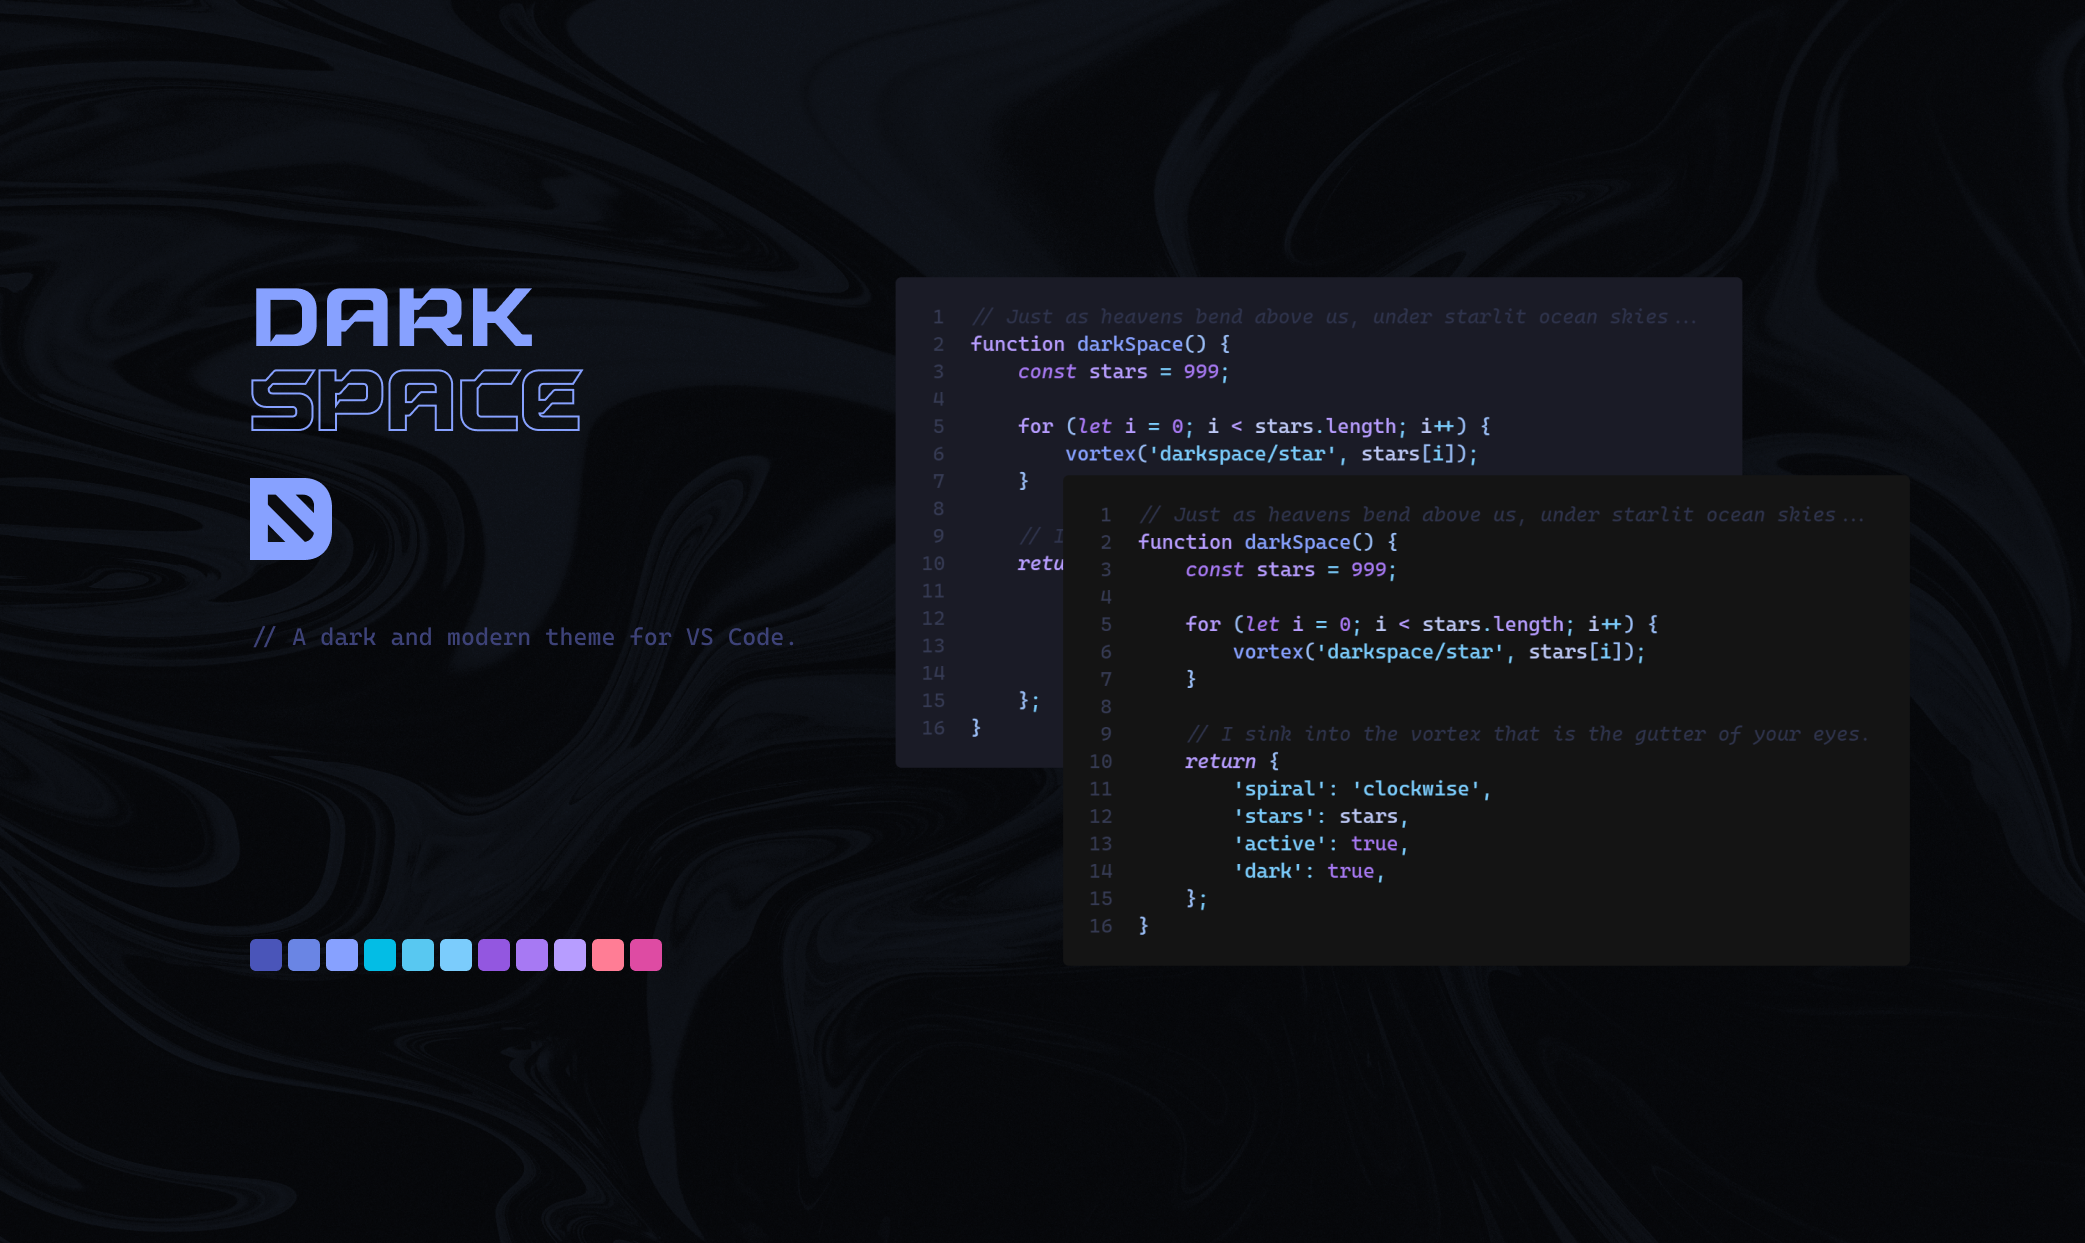
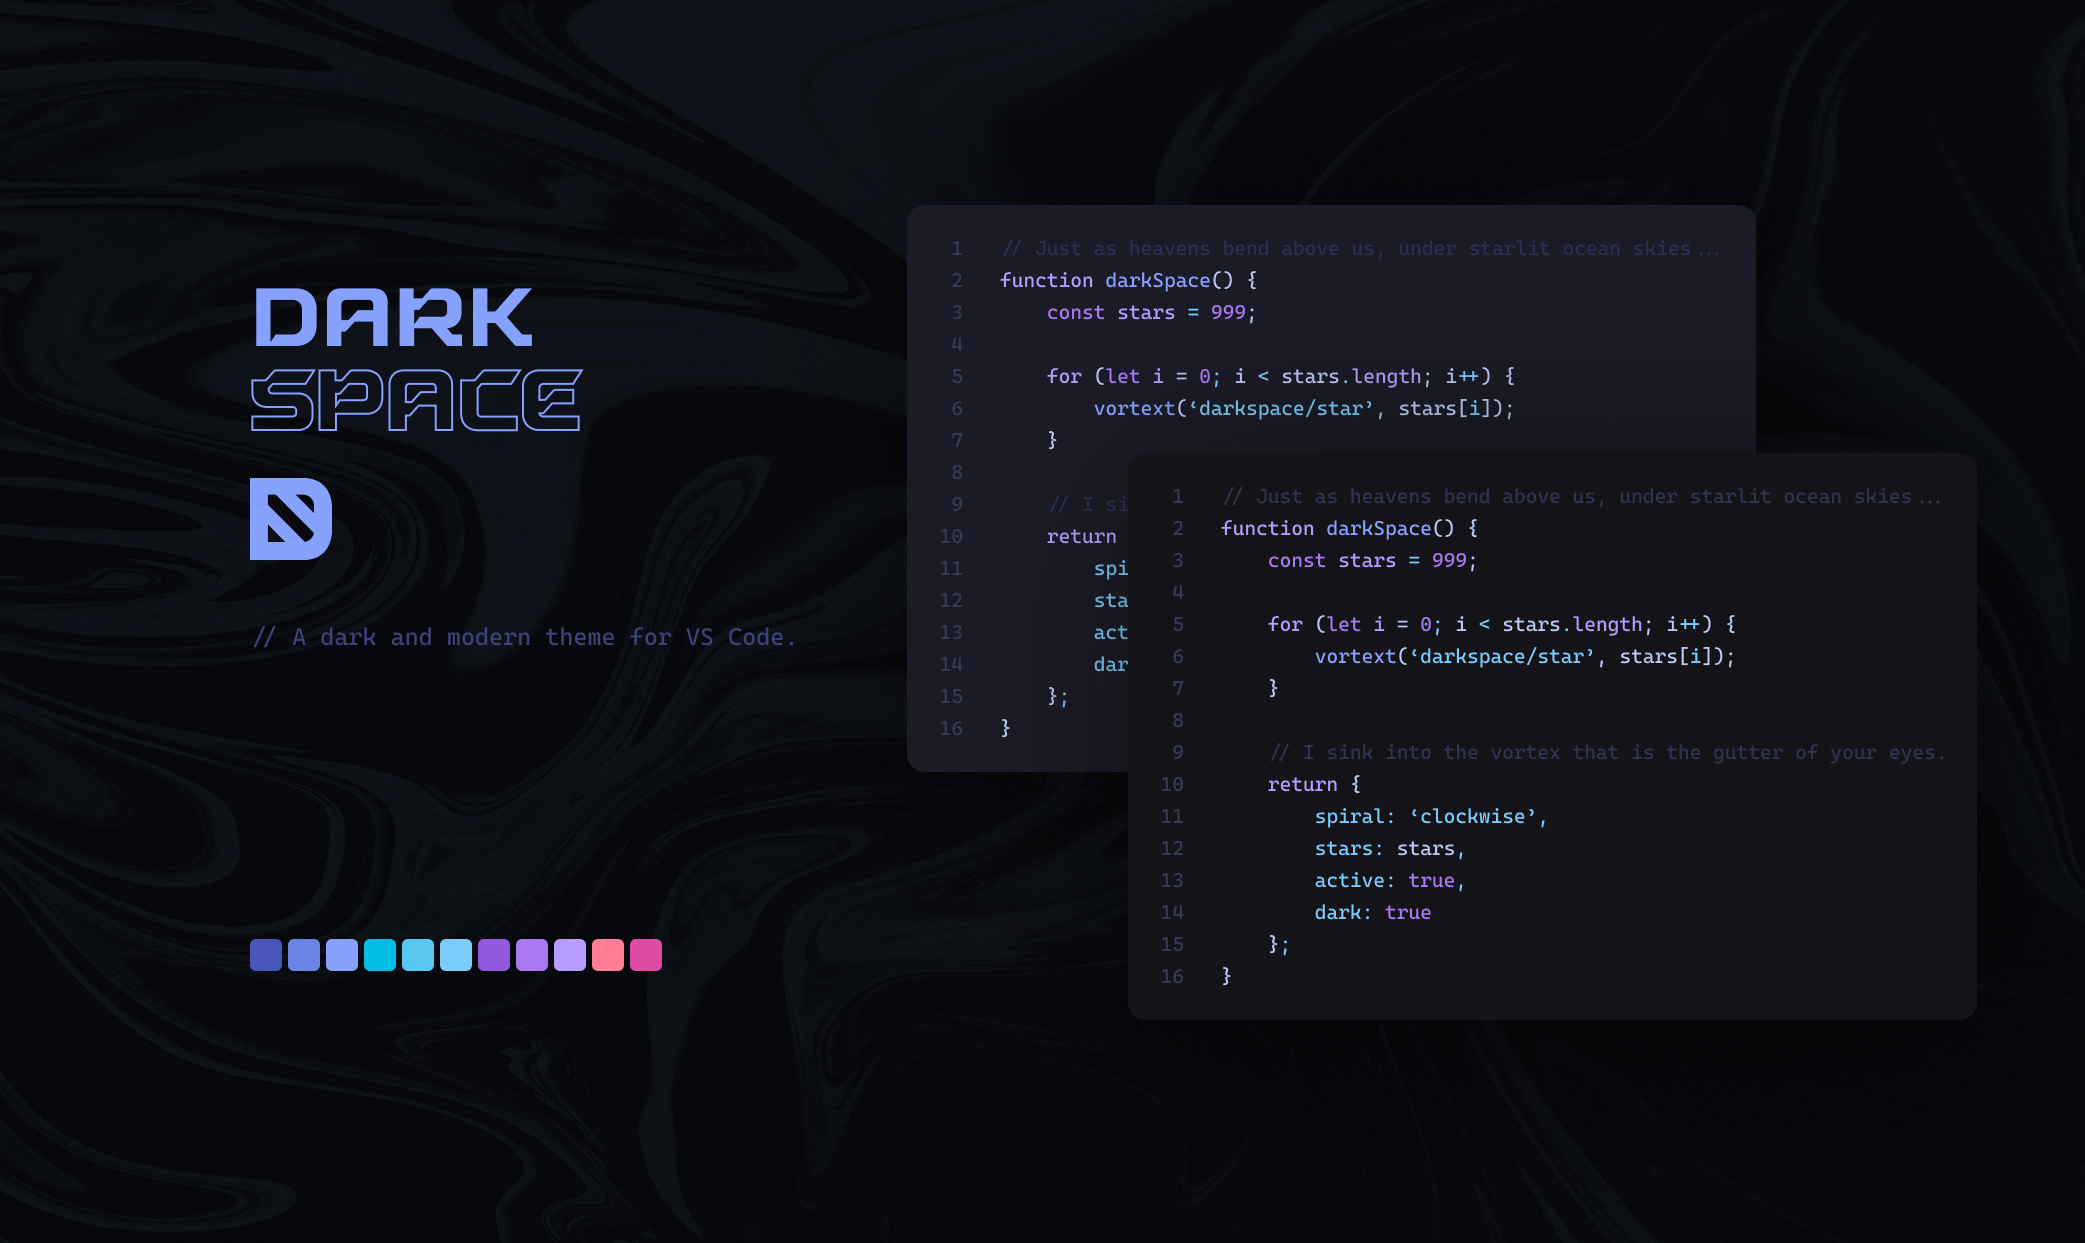
Updated colors and screenshots
- Updated keyword key operator colors
- Changed regular expression colors
- Added color to the selected menu item in the activity bar
- Updated Dark Space Black editor background color to more of a dark shade of blue than pure black

diff --git a/CHANGELOG.md b/CHANGELOG.md
@@ -1,7 +1,16 @@
 # Change Log
 
+## 1.1.4 - 10/18/2022
+
+- Updated keyword key operator colors
+- Changed regular expression colors
+- Added color to the selected menu item in the activity bar
+- Updated Dark Space Black editor background color to more of a dark shade of blue than pure black
+
 ## 1.1.3 - 10/13/2022
+
 - Updated readme images and screenshots
 
 ## 1.0.0 - 10/13/2022
+
 - Initial release
